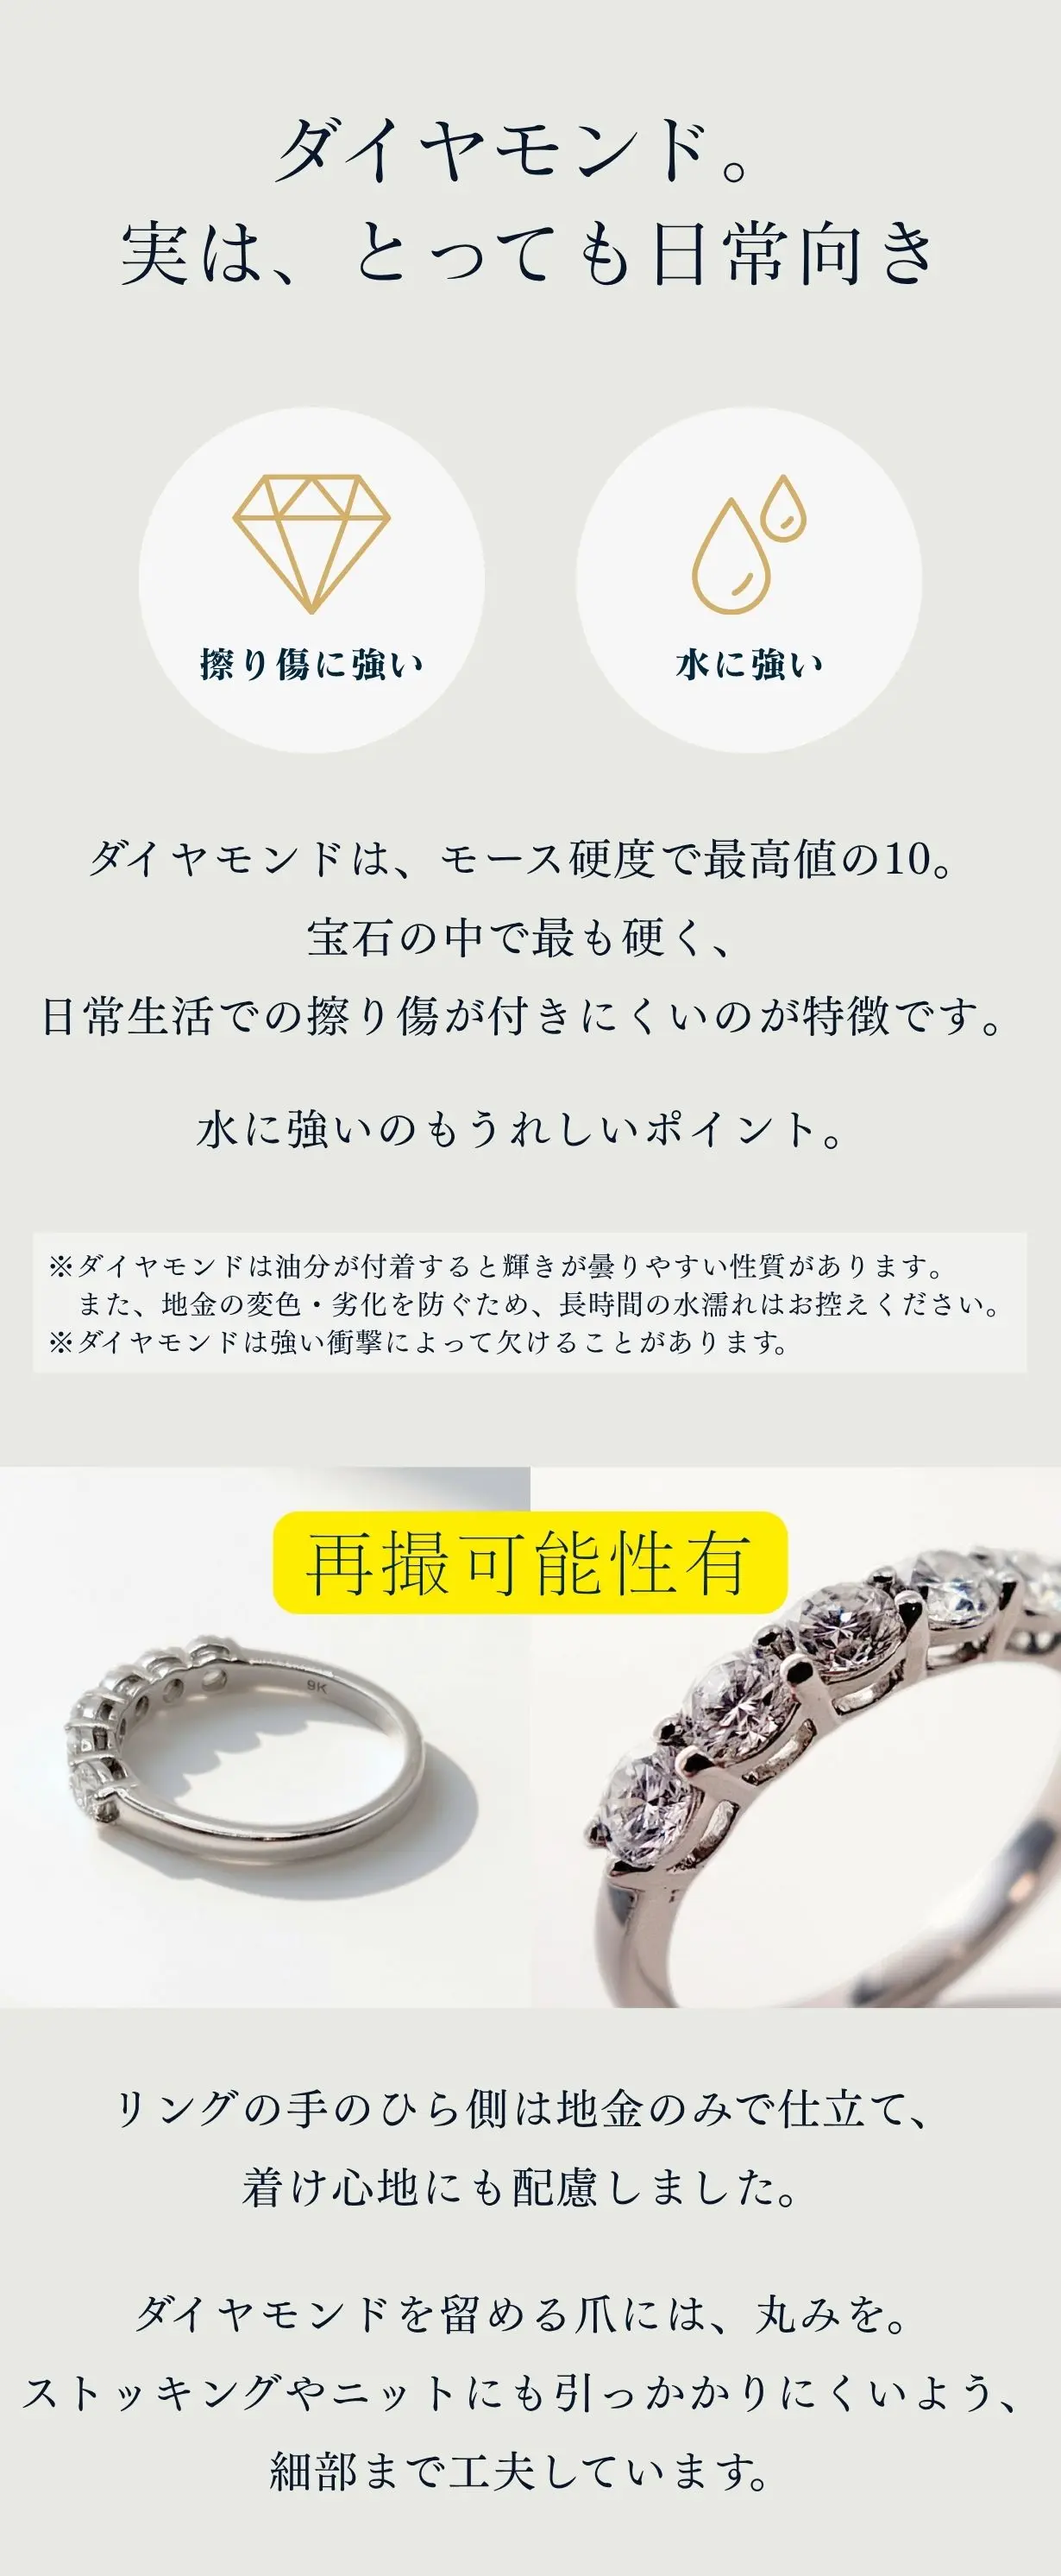
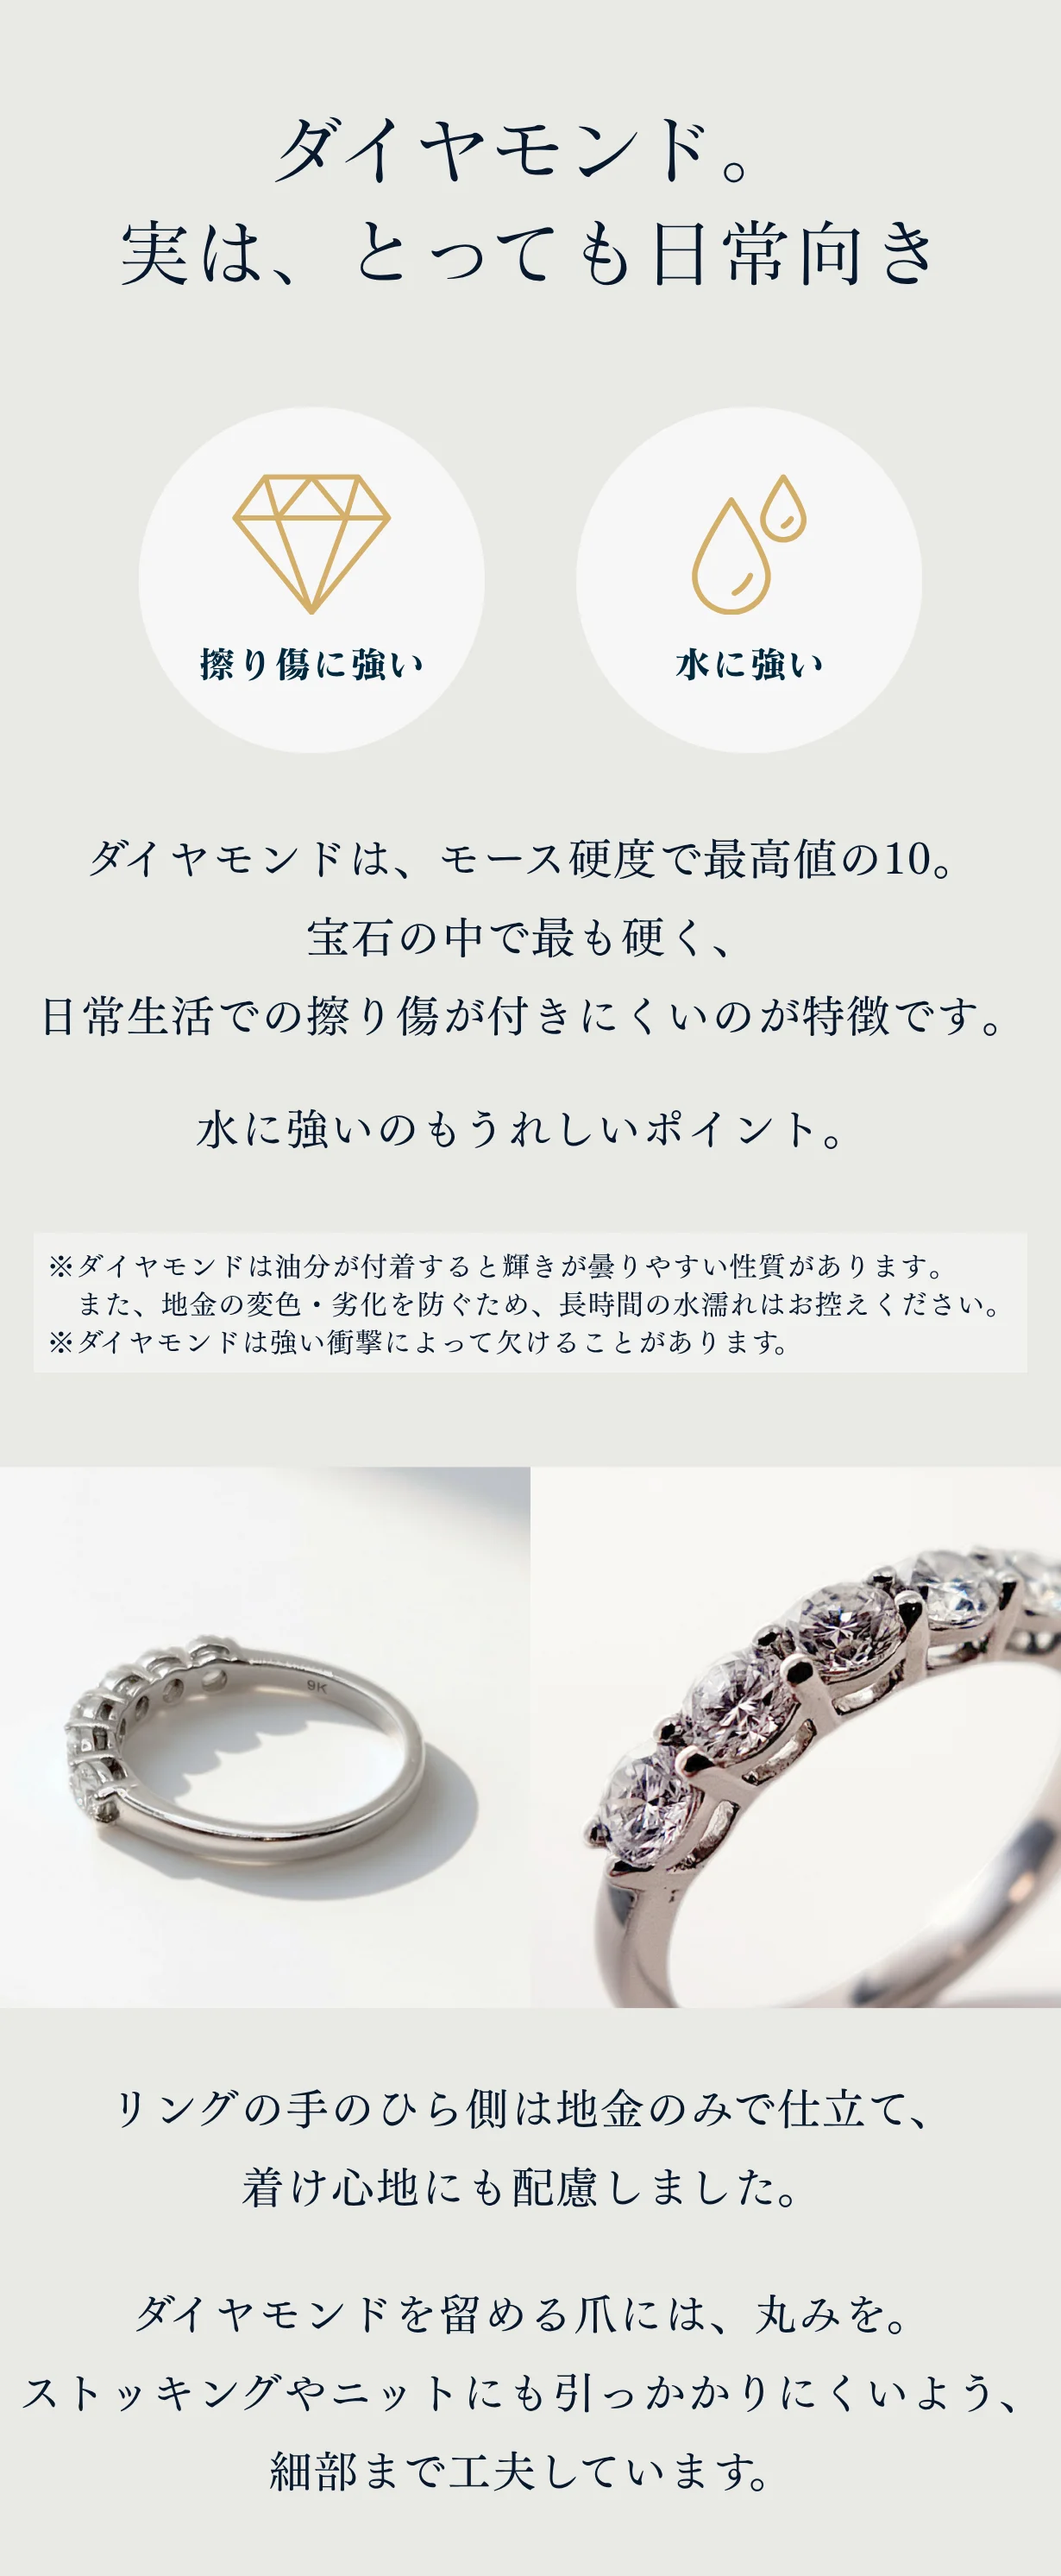
「ダイヤモンドは日常向き」セクションを着け心地の説明入りの新画像に差し替え

Changed region(s): [[0.2472, 0.561, 0.7415, 0.6545]]

diff --git a/index.html b/index.html
@@ -18,7 +18,7 @@
 .line-float.is-visible{opacity:1;visibility:visible;transform:none}
 .line-float svg{width:32px;height:auto}
 @media(prefers-reduced-motion:reduce){.line-float{transition:none}}
-</style></head><body><main aria-label="MOHS ハーフエタニティリング"><div class="hero-banner"><img src="assets/fv-main.webp" width="1230" height="2187" alt="MOHS 1ctの輝きを、もっと日常に ラボグロウンダイヤモンドが輝く、ハーフエタニティリング 12.1 Makuake 先行販売 超早割 ¥89,800 限定3点" loading="eager" decoding="async"><a class="line-cta" href="https://lin.ee/tXXrxcO" target="_blank" rel="noopener noreferrer"><span>LINE登録でお得に</span><span class="cta-arrow" aria-hidden="true"></span></a></div><img src="assets/fv-copy.webp" width="1230" height="1230" alt="仕事の日も、休日も なんでもない日を、ほんの少し特別に。ふと目に入るたびに嬉しくなる。いつもの装いのなかに大粒ダイヤモンドの輝きを。6石で合計1ct IGI鑑定書付き ハーフエタニティリング" loading="eager" decoding="async"><img src="assets/2.webp" width="1230" height="1640" alt="MOHS 商品紹介 3" loading="eager" decoding="async"><div class="sale-banner"><img src="assets/sale-cta.webp" width="1230" height="1640" alt="Makuake 12.1 TUE 12:00 START 超早割 限定3点 一般販売価格¥139,800(税込)から35%OFF ¥89,800(税込) LINE事前登録の方限定 開始日時・商品情報・早割情報をLINE友だちご登録で優先的にご案内します" loading="eager" decoding="async"><a class="line-cta" href="https://lin.ee/tXXrxcO" target="_blank" rel="noopener noreferrer"><span>LINE登録でお得に</span><span class="cta-arrow" aria-hidden="true"></span></a></div><video class="ring-video" src="assets/ring-sparkle.mp4" poster="assets/ring-sparkle-poster.webp" width="1280" height="720" autoplay muted loop playsinline preload="metadata" aria-label="指輪のダイヤモンドがきらめく様子"></video><img src="assets/5.webp" width="1230" height="350" alt="MOHS 商品紹介 6" loading="lazy" decoding="async"><img src="assets/6.webp" width="1230" height="2984" alt="MOHS 商品紹介 7" loading="lazy" decoding="async"><img src="assets/7.webp" width="1230" height="350" alt="MOHS 商品紹介 8" loading="lazy" decoding="async"><img src="assets/8.webp" width="1230" height="2984" alt="MOHS 商品紹介 9" loading="lazy" decoding="async"><img src="assets/9.gif" width="738" height="984" alt="MOHS 商品紹介 10" loading="lazy" decoding="async"><img src="assets/10.webp" width="1230" height="820" alt="MOHS 商品紹介 11" loading="lazy" decoding="async"><img src="assets/11.webp" width="1230" height="2984" alt="MOHS 商品紹介 12" loading="lazy" decoding="async"><img src="assets/12.webp" width="1230" height="1230" alt="MOHS 商品紹介 13" loading="lazy" decoding="async"><img src="assets/13.webp" width="1230" height="350" alt="MOHS 商品紹介 14" loading="lazy" decoding="async"><img src="assets/14.webp" width="1230" height="2984" alt="MOHS 商品紹介 15" loading="lazy" decoding="async"><img src="assets/15.webp" width="1230" height="350" alt="MOHS 商品紹介 16" loading="lazy" decoding="async"><img src="assets/16.webp" width="1230" height="1640" alt="MOHS 商品紹介 17" loading="lazy" decoding="async"><img src="assets/17.webp" width="1230" height="350" alt="MOHS 商品紹介 18" loading="lazy" decoding="async"><img src="assets/18.webp" width="1230" height="2984" alt="MOHS 商品紹介 19" loading="lazy" decoding="async"><img src="assets/19.webp" width="1230" height="350" alt="MOHS 商品紹介 20" loading="lazy" decoding="async"><img src="assets/20.webp" width="1230" height="1230" alt="MOHS 商品紹介 21" loading="lazy" decoding="async"><img src="assets/21.webp" width="1230" height="820" alt="MOHS 商品紹介 22" loading="lazy" decoding="async"><img src="assets/22.webp" width="1230" height="2984" alt="MOHS 商品紹介 23" loading="lazy" decoding="async"><aside class="quality-notes" aria-label="ダイヤモンドの品質と鑑定書についての注意事項"><p>※上記グレードは仕入れ元の品質基準です。カットグレードは鑑定書には記載されていません。</p><p>※鑑定書は完成品のリングに対して発行されるもので、一石ごとに付属するものではありません。</p></aside><img src="assets/23.webp" width="1230" height="350" alt="MOHS 商品紹介 24" loading="lazy" decoding="async"><div class="origin-copy"><p>世界各地から宝石やバイヤーが集まるタイは、ジュエリーの製造・取引で世界的に知られる拠点のひとつです。</p></div><img src="assets/24.webp" width="1230" height="1640" alt="MOHS 商品紹介 25" loading="lazy" decoding="async"><div class="origin-copy"><p>旅行先のこの地で、ラボグロウンダイヤモンドのジュエリーを手に取りました。</p><p>その美しさと、ダイヤモンドをもっと身近に楽しめる選択肢があることに、心を動かされました。</p><p><strong>「この輝きを、もっと日常の中で楽しめたら。」</strong></p><p>帰国後もその思いは変わらず、素材や品質、価格について検討を重ねました。</p></div><img src="assets/25.webp" width="1230" height="820" alt="MOHS 商品紹介 26" loading="lazy" decoding="async"><div class="origin-copy"><p>タイで出会ったジュエラーとのやり取りを通じて、その思いを形にしたのが、MOHS JEWELRYの最初のリングです。</p></div><img src="assets/26.webp" width="1230" height="350" alt="MOHS 商品紹介 27" loading="lazy" decoding="async"><img src="assets/27.webp" width="1230" height="1230" alt="MOHS 商品紹介 28" loading="lazy" decoding="async"><img src="assets/28.webp" width="1230" height="1230" alt="MOHS 商品紹介 29" loading="lazy" decoding="async"><img src="assets/29.webp" width="1230" height="1230" alt="MOHS 商品紹介 30" loading="lazy" decoding="async"><img src="assets/30.webp" width="1230" height="1640" alt="MOHS 商品紹介 31" loading="lazy" decoding="async"><img src="assets/31.webp" width="1230" height="1640" alt="MOHS 商品紹介 32" loading="lazy" decoding="async"><img src="assets/32.webp" width="1230" height="350" alt="MOHS 商品紹介 33" loading="lazy" decoding="async"><section class="detail-copy" aria-label="お届け後のサポートの詳細">
+</style></head><body><main aria-label="MOHS ハーフエタニティリング"><div class="hero-banner"><img src="assets/fv-main.webp" width="1230" height="2187" alt="MOHS 1ctの輝きを、もっと日常に ラボグロウンダイヤモンドが輝く、ハーフエタニティリング 12.1 Makuake 先行販売 超早割 ¥89,800 限定3点" loading="eager" decoding="async"><a class="line-cta" href="https://lin.ee/tXXrxcO" target="_blank" rel="noopener noreferrer"><span>LINE登録でお得に</span><span class="cta-arrow" aria-hidden="true"></span></a></div><img src="assets/fv-copy.webp" width="1230" height="1230" alt="仕事の日も、休日も なんでもない日を、ほんの少し特別に。ふと目に入るたびに嬉しくなる。いつもの装いのなかに大粒ダイヤモンドの輝きを。6石で合計1ct IGI鑑定書付き ハーフエタニティリング" loading="eager" decoding="async"><img src="assets/2.webp" width="1230" height="1640" alt="MOHS 商品紹介 3" loading="eager" decoding="async"><div class="sale-banner"><img src="assets/sale-cta.webp" width="1230" height="1640" alt="Makuake 12.1 TUE 12:00 START 超早割 限定3点 一般販売価格¥139,800(税込)から35%OFF ¥89,800(税込) LINE事前登録の方限定 開始日時・商品情報・早割情報をLINE友だちご登録で優先的にご案内します" loading="eager" decoding="async"><a class="line-cta" href="https://lin.ee/tXXrxcO" target="_blank" rel="noopener noreferrer"><span>LINE登録でお得に</span><span class="cta-arrow" aria-hidden="true"></span></a></div><video class="ring-video" src="assets/ring-sparkle.mp4" poster="assets/ring-sparkle-poster.webp" width="1280" height="720" autoplay muted loop playsinline preload="metadata" aria-label="指輪のダイヤモンドがきらめく様子"></video><img src="assets/5.webp" width="1230" height="350" alt="MOHS 商品紹介 6" loading="lazy" decoding="async"><img src="assets/6.webp" width="1230" height="2984" alt="MOHS 商品紹介 7" loading="lazy" decoding="async"><img src="assets/7.webp" width="1230" height="350" alt="MOHS 商品紹介 8" loading="lazy" decoding="async"><img src="assets/8.webp" width="1230" height="2984" alt="ダイヤモンド。実は、とっても日常向き 擦り傷に強い・水に強い ダイヤモンドはモース硬度で最高値の10。宝石の中で最も硬く、日常生活での擦り傷が付きにくいのが特徴です。リングの手のひら側は地金のみで仕立て、着け心地にも配慮しました。ダイヤモンドを留める爪には丸みを。ストッキングやニットにも引っかかりにくいよう、細部まで工夫しています。" loading="lazy" decoding="async"><img src="assets/9.gif" width="738" height="984" alt="MOHS 商品紹介 10" loading="lazy" decoding="async"><img src="assets/10.webp" width="1230" height="820" alt="MOHS 商品紹介 11" loading="lazy" decoding="async"><img src="assets/11.webp" width="1230" height="2984" alt="MOHS 商品紹介 12" loading="lazy" decoding="async"><img src="assets/12.webp" width="1230" height="1230" alt="MOHS 商品紹介 13" loading="lazy" decoding="async"><img src="assets/13.webp" width="1230" height="350" alt="MOHS 商品紹介 14" loading="lazy" decoding="async"><img src="assets/14.webp" width="1230" height="2984" alt="MOHS 商品紹介 15" loading="lazy" decoding="async"><img src="assets/15.webp" width="1230" height="350" alt="MOHS 商品紹介 16" loading="lazy" decoding="async"><img src="assets/16.webp" width="1230" height="1640" alt="MOHS 商品紹介 17" loading="lazy" decoding="async"><img src="assets/17.webp" width="1230" height="350" alt="MOHS 商品紹介 18" loading="lazy" decoding="async"><img src="assets/18.webp" width="1230" height="2984" alt="MOHS 商品紹介 19" loading="lazy" decoding="async"><img src="assets/19.webp" width="1230" height="350" alt="MOHS 商品紹介 20" loading="lazy" decoding="async"><img src="assets/20.webp" width="1230" height="1230" alt="MOHS 商品紹介 21" loading="lazy" decoding="async"><img src="assets/21.webp" width="1230" height="820" alt="MOHS 商品紹介 22" loading="lazy" decoding="async"><img src="assets/22.webp" width="1230" height="2984" alt="MOHS 商品紹介 23" loading="lazy" decoding="async"><aside class="quality-notes" aria-label="ダイヤモンドの品質と鑑定書についての注意事項"><p>※上記グレードは仕入れ元の品質基準です。カットグレードは鑑定書には記載されていません。</p><p>※鑑定書は完成品のリングに対して発行されるもので、一石ごとに付属するものではありません。</p></aside><img src="assets/23.webp" width="1230" height="350" alt="MOHS 商品紹介 24" loading="lazy" decoding="async"><div class="origin-copy"><p>世界各地から宝石やバイヤーが集まるタイは、ジュエリーの製造・取引で世界的に知られる拠点のひとつです。</p></div><img src="assets/24.webp" width="1230" height="1640" alt="MOHS 商品紹介 25" loading="lazy" decoding="async"><div class="origin-copy"><p>旅行先のこの地で、ラボグロウンダイヤモンドのジュエリーを手に取りました。</p><p>その美しさと、ダイヤモンドをもっと身近に楽しめる選択肢があることに、心を動かされました。</p><p><strong>「この輝きを、もっと日常の中で楽しめたら。」</strong></p><p>帰国後もその思いは変わらず、素材や品質、価格について検討を重ねました。</p></div><img src="assets/25.webp" width="1230" height="820" alt="MOHS 商品紹介 26" loading="lazy" decoding="async"><div class="origin-copy"><p>タイで出会ったジュエラーとのやり取りを通じて、その思いを形にしたのが、MOHS JEWELRYの最初のリングです。</p></div><img src="assets/26.webp" width="1230" height="350" alt="MOHS 商品紹介 27" loading="lazy" decoding="async"><img src="assets/27.webp" width="1230" height="1230" alt="MOHS 商品紹介 28" loading="lazy" decoding="async"><img src="assets/28.webp" width="1230" height="1230" alt="MOHS 商品紹介 29" loading="lazy" decoding="async"><img src="assets/29.webp" width="1230" height="1230" alt="MOHS 商品紹介 30" loading="lazy" decoding="async"><img src="assets/30.webp" width="1230" height="1640" alt="MOHS 商品紹介 31" loading="lazy" decoding="async"><img src="assets/31.webp" width="1230" height="1640" alt="MOHS 商品紹介 32" loading="lazy" decoding="async"><img src="assets/32.webp" width="1230" height="350" alt="MOHS 商品紹介 33" loading="lazy" decoding="async"><section class="detail-copy" aria-label="お届け後のサポートの詳細">
 <p>長くご愛用いただけるよう、修理やサイズ直しなど、お届け後のご相談も承ります。</p>
 <h3>品質保証</h3><p>お届け時に初期不良が認められた場合は、無償で修理または交換いたします。商品到着後14日以内にご連絡ください。</p>
 <h3>修理・サイズ直し</h3><p>ご使用による傷・変形・破損や、サイズ直しは有償で承ります。対応の可否や費用は、リングの状態により異なります。</p>
